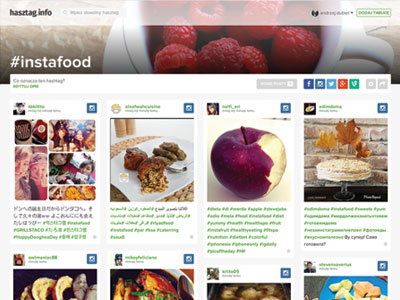
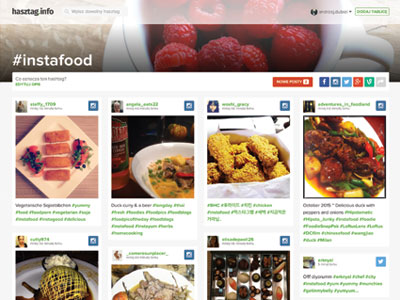
More main page

diff --git a/public/css/style.css b/public/css/style.css
@@ -1789,7 +1789,7 @@ Stylesheet: Alert Styles
     padding-bottom: .5em; }
   .table-pricing th, .table-pricing td {
     text-align: center; }
-    @media (min-width: 768px) {
+    @media (min-width: 996px) {
       .table-pricing th, .table-pricing td {
         display: table-cell;
         padding: .25em .5em; }
@@ -1814,12 +1814,12 @@ Stylesheet: Alert Styles
       font-weight: bold;
       width: 8.5em;
       display: inline-block; }
-      @media (min-width: 768px) {
+      @media (min-width: 996px) {
         .rwd-table td:before {
           display: none; } }
   .rwd-table th, .rwd-table td {
     text-align: left; }
-    @media (min-width: 768px) {
+    @media (min-width: 996px) {
       .rwd-table th, .rwd-table td {
         display: table-cell;
         padding: .25em .5em; }
@@ -1832,7 +1832,7 @@ Stylesheet: Alert Styles
   overflow: hidden; }
   .rwd-table th, .rwd-table td {
     margin: 0; }
-    @media (min-width: 768px) {
+    @media (min-width: 996px) {
       .rwd-table th, .rwd-table td {
         padding-bottom: 10px; } }
   .rwd-table th, .rwd-table td:before {
@@ -3219,6 +3219,27 @@ abbr[title] {
   padding-top: 40px;
   position: relative;
   margin-bottom: 30px; }
+  .home-intro:before {
+    content: '';
+    position: absolute;
+    top: 0;
+    left: 0;
+    height: 150px;
+    width: 100%;
+    background: -moz-linear-gradient(top, rgba(0, 0, 0, 0.55) 0%, transparent 100%);
+    /* FF3.6+ */
+    background: -webkit-gradient(linear, left top, left bottom, color-stop(0%, rgba(0, 0, 0, 0.55)), color-stop(100%, transparent));
+    /* Chrome,Safari4+ */
+    background: -webkit-linear-gradient(top, rgba(0, 0, 0, 0.55) 0%, transparent 100%);
+    /* Chrome10+,Safari5.1+ */
+    background: -o-linear-gradient(top, rgba(0, 0, 0, 0.55) 0%, transparent 100%);
+    /* Opera 11.10+ */
+    background: -ms-linear-gradient(top, rgba(0, 0, 0, 0.55) 0%, transparent 100%);
+    /* IE10+ */
+    background: linear-gradient(to bottom, rgba(0, 0, 0, 0.55) 0%, transparent 100%);
+    /* W3C */
+    filter: progid:DXImageTransform.Microsoft.gradient( startColorstr='#a6000000', endColorstr='#00000000',GradientType=0 );
+    /* IE6-9 */ }
 
 .home-search-wrapper {
   width: 300px;
@@ -3294,7 +3315,7 @@ abbr[title] {
 .home-section,
 .home-section-pro {
   text-align: center;
-  padding-top: 50px; }
+  padding-top: 30px; }
   .home-section .home-section-icon,
   .home-section-pro .home-section-icon {
     width: 170px;
@@ -3369,8 +3390,8 @@ abbr[title] {
   height: auto;
   margin: 30px auto 0; }
   .home-section-pro .svg.svg-network {
-    width: 100px;
-    margin-top: 15px; }
+    width: 60px;
+    margin-top: 30px; }
   .home-section-pro .svg.svg-link {
     width: 50px;
     margin-top: 40px; }
@@ -3421,7 +3442,8 @@ abbr[title] {
   .home-gallery .gallery-item {
     display: block;
     text-align: center;
-    text-decoration: none; }
+    text-decoration: none;
+    margin-bottom: 10px; }
     .home-gallery .gallery-item img {
       width: 100%;
       -webkit-border-radius: 3px;
@@ -3853,9 +3875,13 @@ FOOTER STYLES
     .home-search .search-bar input {
       line-height: 58px; }
 
+  .home-section,
+  .home-section-pro {
+    padding-top: 50px; }
+
   .home-section-left {
     text-align: left;
-    padding-top: 70px; }
+    padding-top: 60px; }
     .home-section-left p {
       padding: 0; }
     .home-section-left h4:after {
@@ -3865,6 +3891,9 @@ FOOTER STYLES
       height: 3px;
       background: #42a80b;
       margin: 5px 0 0 0; }
+
+  .home-gallery .gallery-item {
+    margin-bottom: 0; }
 
   /*********************
   HEADER STYLES
@@ -3944,7 +3973,10 @@ FOOTER STYLES
     width: 80%; }
 
   .board-settings-wrapper {
-    width: 70%; } }
+    width: 70%; }
+
+  .home-section-left {
+    padding-top: 70px; } }
 @media only screen and (min-width: 1200px) {
   /******************************************************************
   Site Name: 

diff --git a/public/scss/breakpoints/_base.scss b/public/scss/breakpoints/_base.scss
@@ -238,14 +238,14 @@ POSTS & CONTENT STYLES
 		position:relative;
 
 		&:before {
-    	content: '';
-		position: absolute;
-		bottom: 0;
-		left: 0;
-		height:150px;
-		width:100%;
-		background: rgba(0,0,0,0.45);
-  }
+	    	content: '';
+			position: absolute;
+			bottom: 0;
+			left: 0;
+			height:150px;
+			width:100%;
+			background: rgba(0,0,0,0.45);
+  		}
 	}
 }
 
@@ -1028,6 +1028,22 @@ abbr[title] {
 	padding-top:40px;
 	position:relative;
 	margin-bottom:30px;
+
+	&:before {
+		content: '';
+		position: absolute;
+		top: 0;
+		left: 0;
+		height:150px;
+		width:100%;
+		background: -moz-linear-gradient(top, rgba(0,0,0,0.55) 0%, rgba(0,0,0,0) 100%); /* FF3.6+ */
+		background: -webkit-gradient(linear, left top, left bottom, color-stop(0%,rgba(0,0,0,0.55)), color-stop(100%,rgba(0,0,0,0))); /* Chrome,Safari4+ */
+		background: -webkit-linear-gradient(top, rgba(0,0,0,0.55) 0%,rgba(0,0,0,0) 100%); /* Chrome10+,Safari5.1+ */
+		background: -o-linear-gradient(top, rgba(0,0,0,0.55) 0%,rgba(0,0,0,0) 100%); /* Opera 11.10+ */
+		background: -ms-linear-gradient(top, rgba(0,0,0,0.55) 0%,rgba(0,0,0,0) 100%); /* IE10+ */
+		background: linear-gradient(to bottom, rgba(0,0,0,0.55) 0%,rgba(0,0,0,0) 100%); /* W3C */
+		filter: progid:DXImageTransform.Microsoft.gradient( startColorstr='#a6000000', endColorstr='#00000000',GradientType=0 ); /* IE6-9 */
+  }
 }
 
 .home-search-wrapper {
@@ -1108,7 +1124,7 @@ abbr[title] {
 .home-section,
 .home-section-pro {
 	text-align:center;
-	padding-top:50px;
+	padding-top:30px;
 
 	.home-section-icon {
 		width:170px;
@@ -1194,8 +1210,8 @@ abbr[title] {
 		margin: 30px auto 0;
 
 		&.svg-network {
-			width:100px;
-			margin-top:15px;
+			width:60px;
+			margin-top:30px;
 		}
 
 		&.svg-link {
@@ -1264,9 +1280,11 @@ abbr[title] {
 		display:block;
 		text-align: center;
 		text-decoration: none;
+		margin-bottom:10px;
 
 		img {
 			width:100%;
+
 			@include border-radius(3px);
 			@include transition(opacity 0.3s ease-in-out);
 

diff --git a/public/css/ie.css b/public/css/ie.css
@@ -247,9 +247,13 @@ LAYOUT & GRID STYLES
   .home-search .search-bar input {
     line-height: 58px; }
 
+.home-section,
+.home-section-pro {
+  padding-top: 50px; }
+
 .home-section-left {
   text-align: left;
-  padding-top: 70px; }
+  padding-top: 60px; }
   .home-section-left p {
     padding: 0; }
   .home-section-left h4:after {
@@ -259,6 +263,9 @@ LAYOUT & GRID STYLES
     height: 3px;
     background: #42a80b;
     margin: 5px 0 0 0; }
+
+.home-gallery .gallery-item {
+  margin-bottom: 0; }
 
 /*********************
 HEADER STYLES
@@ -339,3 +346,6 @@ Stylesheet: Desktop Stylsheet
 
 .board-settings-wrapper {
   width: 70%; }
+
+.home-section-left {
+  padding-top: 70px; }

diff --git a/public/scss/breakpoints/_768up.scss b/public/scss/breakpoints/_768up.scss
@@ -254,9 +254,14 @@ LAYOUT & GRID STYLES
   }
 }
 
+.home-section,
+.home-section-pro {
+  padding-top:50px;
+}
+
 .home-section-left {
   text-align:left;
-  padding-top:70px;
+  padding-top:60px;
 
 
   p {
@@ -275,6 +280,12 @@ LAYOUT & GRID STYLES
     }
   }
 }
+
+.home-gallery {
+  .gallery-item {
+    margin-bottom:0;
+    }
+  }
 
 
 

diff --git a/public/scss/modules/_tables.scss b/public/scss/modules/_tables.scss
@@ -1,4 +1,4 @@
-$breakpoint-alpha: 768px; // adjust to your needs
+$breakpoint-alpha: 996px; // adjust to your needs
 
 .table-pricing {
   margin: 0;

diff --git a/public/scss/breakpoints/_992up.scss b/public/scss/breakpoints/_992up.scss
@@ -18,3 +18,7 @@ Stylesheet: Desktop Stylsheet
 .board-settings-wrapper {
   width:70%;
 }
+
+.home-section-left {
+  padding-top:70px;
+  }

diff --git a/app/views/user/boards.blade.php b/app/views/user/boards.blade.php
@@ -43,7 +43,7 @@
 						<a class="hashtag not-active" href="#">#{{ $board->hashtag }}</a>
 					@endif	
 				</td>
-			    <td data-th="Ustawienia"><a class="btn-default btn-sm btn-green-inverted" href="{{ URL::to("konto/tablica/$board->hashtag/$board->id/ustawienia") }}"><i class="fa fa-cog"></i> Ustawienia</a></td>
+			    <td data-th="Ustawienia"><a class="btn-default btn-sm btn-green-inverted" href="{{ URL::to("konto/tablica/$board->hashtag/$board->id/ustawienia") }}">Ustawienia</a></td>
 			    <td data-th="Promowane Posty">
 			    	@if($board->featuredPost()->count() > 0)
 						<a class="btn-default btn-sm btn-green-inverted" href="{{ URL::to("konto/tablica/$board->hashtag/$board->id/promowane") }}"><i class="fa fa-star"></i> Zobacz Posty</a>

diff --git a/app/views/front/home.blade.php b/app/views/front/home.blade.php
@@ -183,7 +183,12 @@
 
 <div class="block-cta">
 	<p>Podoba się? Załóż swoją pierwszą tablicę za darmo!</p>
-	<a href="{{ URL::to('/zarejestruj') }}" class="btn-default btn-lg btn-white-inverted">Zarejestruj się</a>
+	@if(Auth::check())
+		<a href="{{ URL::to('/konto/tablice') }}" class="btn-default btn-lg btn-white-inverted">Dodaj tablicę</a>
+	@else
+		<a href="{{ URL::to('/zarejestruj') }}" class="btn-default btn-lg btn-white-inverted">Zarejestruj się</a>
+	@endif
+	
 </div>
 
 @if(Auth::check())
